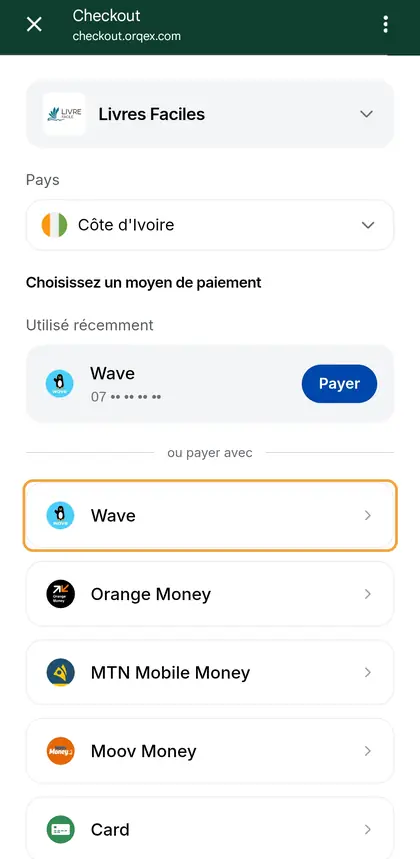
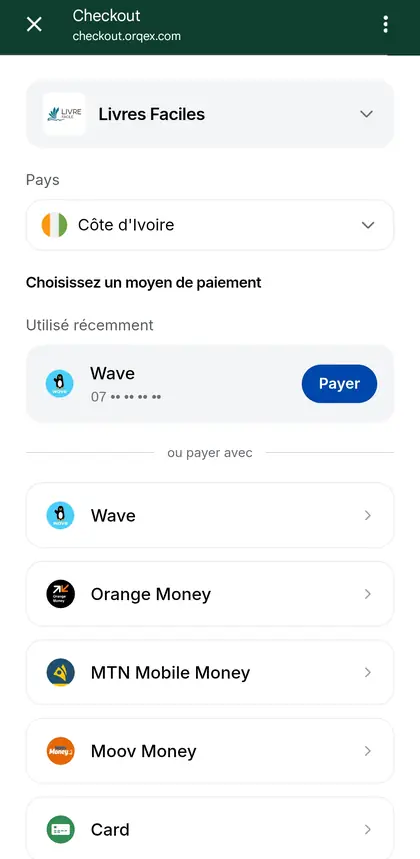
Comment payer : curseur, cadres, cercles et soulignements animés sur chaque étape
Les repères ne sont plus dessinés dans les images : ils se tracent par-dessus,
puis un curseur vient toucher le bouton de l'étape.

Claude-Session: https://claude.ai/code/session_01HybvSSb7PWDgeQqxyupbEP

Changed region(s): [[0.031, 0.5448, 0.9595, 0.6356], [0.0619, 0.6356, 0.9286, 0.6659]]

diff --git a/src/components/CommentPayer.tsx b/src/components/CommentPayer.tsx
@@ -1,20 +1,27 @@
 import { useEffect, useRef, useState } from "preact/hooks";
 import { Icon } from "./Icon";
 
-/** Les étapes de l'achat, en captures d'écran (données personnelles masquées). Images dans public/comment-payer/. */
-const ETAPES = [
-  "Dans Litterae, va dans « Mon espace » et touche « Acheter l'accès complet ».",
-  "La page de Chariow s'ouvre. Touche « Obtenir la licence ».",
-  "Écris ton prénom, ton nom, ton e-mail et ton numéro, puis touche « Payer maintenant ». Mets un e-mail que tu consultes : ta clé arrive là.",
-  "Choisis ton moyen de paiement Mobile Money (ici, Wave).",
-  "Ton application de paiement s'ouvre. Vérifie le montant et confirme.",
-  "Paiement reçu ! Touche « Retour vers Livres Faciles ».",
-  "Ta clé d'accès s'affiche : copie-la. Tu la reçois aussi par e-mail.",
-  "Reviens dans Litterae, va dans « Mon espace » et touche « Accès complet ».",
-  "Colle ta clé dans la case, puis touche « Valider ma clé ».",
-  "C'est fait : tout Litterae est débloqué sur ton téléphone."
+type Trace = { f: "cadre" | "cercle" | "souligne"; b: [number, number, number, number] };
+type Etape = { texte: string; traces: Trace[]; clic?: [number, number] };
+
+/**
+ * Les étapes de l'achat, en captures d'écran (données personnelles masquées). Images dans public/comment-payer/.
+ * Les repères (cadre, cercle, soulignement) et le point touché par le curseur sont en pixels de l'image d'origine (1080 × 2209).
+ */
+const ETAPES: Etape[] = [
+  { texte: "Dans Litterae, va dans « Mon espace » et touche « Acheter l'accès complet ».", traces: [{ f: "souligne", b: [371, 584, 947, 646] }], clic: [689, 619] },
+  { texte: "La page de Chariow s'ouvre. Touche « Obtenir la licence ».", traces: [{ f: "cadre", b: [44, 1449, 1036, 1557] }], clic: [541, 1504] },
+  { texte: "Écris ton prénom, ton nom, ton e-mail et ton numéro, puis touche « Payer maintenant ». Mets un e-mail que tu consultes : ta clé arrive là.", traces: [{ f: "souligne", b: [46, 913, 1034, 1042] }, { f: "cadre", b: [44, 1888, 1036, 2025] }], clic: [541, 1959] },
+  { texte: "Choisis ton moyen de paiement Mobile Money (ici, Wave).", traces: [{ f: "cercle", b: [68, 1242, 1012, 1408] }], clic: [295, 1326] },
+  { texte: "Ton application de paiement s'ouvre. Vérifie le montant et confirme.", traces: [{ f: "cadre", b: [68, 1991, 1012, 2122] }], clic: [541, 2058] },
+  { texte: "Paiement reçu ! Touche « Retour vers Livres Faciles ».", traces: [{ f: "souligne", b: [271, 668, 812, 748] }, { f: "cadre", b: [66, 1230, 1012, 1338] }], clic: [541, 1284] },
+  { texte: "Ta clé d'accès s'affiche : copie-la. Tu la reçois aussi par e-mail.", traces: [{ f: "cercle", b: [90, 1330, 990, 1471] }], clic: [918, 1401] },
+  { texte: "Reviens dans Litterae, va dans « Mon espace » et touche « Accès complet ».", traces: [{ f: "cadre", b: [46, 358, 1034, 555] }], clic: [541, 456] },
+  { texte: "Colle ta clé dans la case, puis touche « Valider ma clé ».", traces: [{ f: "cadre", b: [46, 871, 1034, 1003] }, { f: "souligne", b: [300, 1047, 780, 1178] }], clic: [369, 936] },
+  { texte: "C'est fait : tout Litterae est débloqué sur ton téléphone.", traces: [{ f: "cercle", b: [46, 764, 1034, 956] }] }
 ];
-const DUREE = 4500;
+const DUREE = 5500;
+const DEBUT = 300, ECART = 550;
 const image = (i: number) => `comment-payer/etape-${i + 1}.webp`;
 
 let ouvrir = () => {};
@@ -80,11 +87,14 @@ export function CommentPayer() {
               toucher.current = null;
               if (Math.abs(dx) > 40) main(() => aller(etape + (dx < 0 ? 1 : -1)))();
             }}>
-            <img key={etape} src={image(etape)} width={420} height={859} alt={`Étape ${etape + 1} : ${ETAPES[etape]}`} decoding="async" />
+            <div class="demo-tel" key={etape}>
+              <img src={image(etape)} width={420} height={859} alt={`Étape ${etape + 1} : ${ETAPES[etape].texte}`} decoding="async" />
+              <Reperes etape={ETAPES[etape]} />
+            </div>
           </div>
           <div class="demo-texte" aria-live="polite">
             <p class="demo-num">Étape {etape + 1} sur {ETAPES.length}</p>
-            <p class="demo-legende">{ETAPES[etape]}</p>
+            <p class="demo-legende">{ETAPES[etape].texte}</p>
           </div>
           <div class="demo-barre" aria-hidden="true">
             {ETAPES.map((_, i) => <span class={i < etape ? "fait" : i === etape ? (lecture ? "en-cours" : "fait") : ""} style={i === etape && lecture ? `--duree:${DUREE}ms` : undefined} key={i === etape ? `${i}-${lecture}` : i} />)}
@@ -103,5 +113,26 @@ export function CommentPayer() {
         <button type="button" class="icon-btn" onClick={main(() => aller(etape + 1))} disabled={derniere} aria-label="Étape suivante"><Icon name="arrow_forward" /></button>
       </div>
     </dialog>
+  );
+}
+
+/** Repères animés dessinés sur la capture : cadre, cercle ou soulignement, puis le curseur qui vient toucher. */
+function Reperes({ etape }: { etape: Etape }) {
+  const retard = (i: number) => `--d:${DEBUT + i * ECART}ms`;
+  return (
+    <svg class="demo-reperes" viewBox="0 0 1080 2209" aria-hidden="true">
+      {etape.traces.map(({ f, b: [x1, y1, x2, y2] }, i) => {
+        const cx = (x1 + x2) / 2, cy = (y1 + y2) / 2;
+        if (f === "cadre") return <rect key={i} class="trace" style={retard(i)} pathLength={1} x={x1 - 10} y={y1 - 10} width={x2 - x1 + 20} height={y2 - y1 + 20} rx={26} />;
+        if (f === "cercle") return <ellipse key={i} class="trace" style={retard(i)} pathLength={1} cx={cx} cy={cy} rx={(x2 - x1) / 2 + 34} ry={(y2 - y1) / 2 + 40} transform={`rotate(-2 ${cx} ${cy})`} />;
+        return <path key={i} class="trace trace-souligne" style={retard(i)} pathLength={1} d={`M${x1} ${y2 + 8} Q${cx} ${y2 + 26} ${x2} ${y2 + 4}`} />;
+      })}
+      {etape.clic && (
+        <g style={`--x:${etape.clic[0]};--y:${etape.clic[1]};${retard(etape.traces.length)}`}>
+          <circle class="demo-onde" cx={etape.clic[0]} cy={etape.clic[1]} r={46} />
+          <path class="demo-curseur" d="M0 0V92L23 71L38 104L55 96L40 64H69Z" />
+        </g>
+      )}
+    </svg>
   );
 }

diff --git a/src/styles/components.css b/src/styles/components.css
@@ -313,12 +313,37 @@
 .demo { height: min(90dvh, 820px); max-height: 90dvh; }
 .demo-body { flex: 1; min-height: 0; display: flex; flex-direction: column; gap: var(--s3); padding: var(--s4) var(--s4) var(--s3); background: var(--paper); }
 .demo-ecran { flex: 1; min-height: 0; display: flex; justify-content: center; touch-action: pan-y; }
-.demo-ecran img {
-  height: 100%; width: auto; max-width: 100%; object-fit: contain;
-  border: 3px solid var(--green); border-radius: 16px; background: var(--surface);
-  box-shadow: 0 6px 18px rgba(15, 61, 46, 0.18);
+.demo-tel {
+  position: relative; height: 100%; max-width: 100%; aspect-ratio: 1080 / 2209;
+  border: 3px solid var(--green); border-radius: 16px; overflow: hidden; background: var(--surface);
+  box-shadow: 0 4px 12px rgba(15, 61, 46, 0.14);
   animation: demo-entree 320ms ease-out;
 }
+.demo-tel img { display: block; width: 100%; height: 100%; }
+.demo-reperes { position: absolute; inset: 0; width: 100%; height: 100%; pointer-events: none; }
+.demo-reperes .trace {
+  fill: none; stroke: var(--ochre); stroke-width: 10; stroke-linecap: round; stroke-linejoin: round;
+  stroke-dasharray: 1; stroke-dashoffset: 1;
+  animation: demo-trace 650ms ease-out var(--d) forwards;
+}
+.demo-reperes .trace-souligne { stroke: var(--orange); stroke-width: 12; }
+@keyframes demo-trace { to { stroke-dashoffset: 0; } }
+.demo-curseur {
+  fill: #fff; stroke: var(--green); stroke-width: 7; stroke-linejoin: round;
+  animation: demo-curseur 1300ms ease-in-out var(--d) both;
+}
+@keyframes demo-curseur {
+  0% { opacity: 0; transform: translate(calc(var(--x) * 1px + 230px), calc(var(--y) * 1px + 380px)); }
+  20% { opacity: 1; }
+  65% { transform: translate(calc(var(--x) * 1px), calc(var(--y) * 1px)); }
+  78% { transform: translate(calc(var(--x) * 1px), calc(var(--y) * 1px)) scale(0.84); }
+  90%, 100% { opacity: 1; transform: translate(calc(var(--x) * 1px), calc(var(--y) * 1px)); }
+}
+.demo-onde {
+  fill: var(--ochre); opacity: 0; transform-box: fill-box; transform-origin: center;
+  animation: demo-onde 700ms ease-out calc(var(--d) + 950ms) both;
+}
+@keyframes demo-onde { from { opacity: 0.6; transform: scale(0.3); } to { opacity: 0; transform: scale(2.2); } }
 @keyframes demo-entree { from { opacity: 0; transform: translateX(12px); } to { opacity: 1; transform: none; } }
 .demo-texte { min-height: 5.6em; }
 .demo-num { font-size: var(--text-xs); font-weight: 700; letter-spacing: 0.06em; text-transform: uppercase; color: var(--orange-text); }
@@ -337,4 +362,7 @@
   font: inherit; font-weight: 700; color: var(--green); text-decoration: underline; text-underline-offset: 3px;
 }
 .demo-lien .icon { color: var(--orange); }
-@media (prefers-reduced-motion: reduce) { .demo-ecran img, .demo-barre span.en-cours::after { animation: none; } }
+@media (prefers-reduced-motion: reduce) {
+  .demo-tel, .demo-barre span.en-cours::after, .demo-onde { animation: none; }
+  .demo-reperes .trace, .demo-curseur { animation-duration: 1ms; animation-delay: 0ms; }
+}
